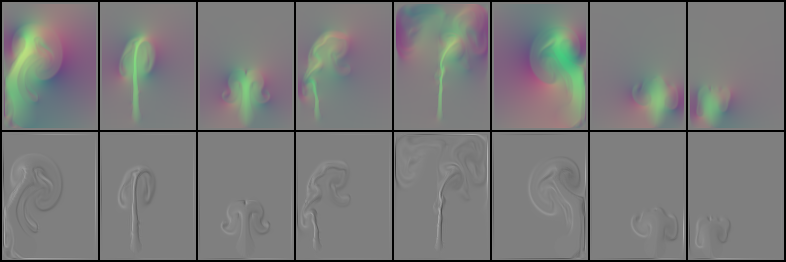
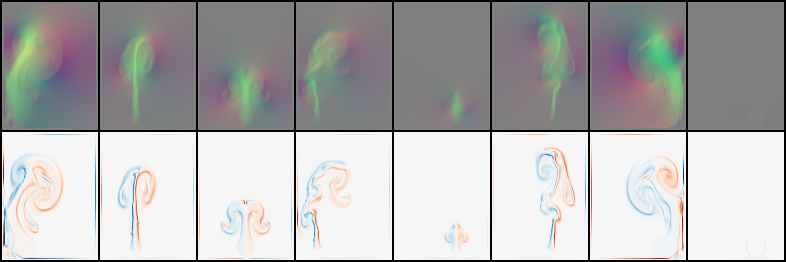
update

diff --git a/trainer3.py b/trainer3.py
@@ -67,13 +67,13 @@ class Trainer3(Trainer):
         summary = [
             # tf.summary.image("xy/G", self.G['xy']),
             # tf.summary.image("zy/G", self.G['zy']),
-            tf.summary.image("xym/G", self.G['xym']),
-            tf.summary.image("zym/G", self.G['zym']),
+            tf.summary.image("xym/G", self.G['xym'][:,::-1]),
+            tf.summary.image("zym/G", self.G['zym'][:,::-1]),
             
             # tf.summary.image("xy/G_vort", self.G_vort['xy']),
             # tf.summary.image("zy/G_vort", self.G_vort['zy']),
-            tf.summary.image("xym/G_vort", self.G_vort['xym']),
-            tf.summary.image("zym/G_vort", self.G_vort['zym']),
+            tf.summary.image("xym/G_vort", self.G_vort['xym'][:,::-1]),
+            tf.summary.image("zym/G_vort", self.G_vort['zym'][:,::-1]),
             
             tf.summary.scalar("loss/g_loss", self.g_loss),
             tf.summary.scalar("loss/g_loss_l1", self.g_loss_l1),
@@ -101,10 +101,10 @@ class Trainer3(Trainer):
         x_vort = denorm_img3(self.x_vort)
         
         summary = [
-            tf.summary.image("xym/x", x['xym']),
-            tf.summary.image("zym/x", x['zym']),
-            tf.summary.image("xym/vort", x_vort['xym']),
-            tf.summary.image("zym/vort", x_vort['zym']),
+            tf.summary.image("xym/x", x['xym'][:,::-1]),
+            tf.summary.image("zym/x", x['zym'][:,::-1]),
+            tf.summary.image("xym/vort", x_vort['xym'][:,::-1]),
+            tf.summary.image("zym/vort", x_vort['zym'][:,::-1]),
         ]
         self.summary_once = tf.summary.merge(summary) # call just once
 
@@ -281,11 +281,11 @@ class Trainer3(Trainer):
 
         # summary
         summary = [
-            tf.summary.image("x/xym", self.x_img['xym']),
-            tf.summary.image("x/zym", self.x_img['zym']),
+            tf.summary.image("x/xym", self.x_img['xym'][:,::-1]),
+            tf.summary.image("x/zym", self.x_img['zym'][:,::-1]),
 
-            tf.summary.image("x/vort_xym", self.x_vort_['xym']),
-            tf.summary.image("x/vort_zym", self.x_vort_['zym']),
+            tf.summary.image("x/vort_xym", self.x_vort_['xym'][:,::-1]),
+            tf.summary.image("x/vort_zym", self.x_vort_['zym'][:,::-1]),
             
             tf.summary.scalar("loss/total_loss", self.loss),
             tf.summary.scalar("loss/loss_l1", self.loss_l1),

diff --git a/trainer.py b/trainer.py
@@ -186,8 +186,8 @@ class Trainer(object):
 
         # summary
         summary = [
-            tf.summary.image("x/G", self.G),
-            tf.summary.image("x/G_vort", self.G_vort),
+            tf.summary.image("x/G", self.G[:,::-1]),
+            tf.summary.image("x/G_vort", self.G_vort[:,::-1]),
             
             tf.summary.scalar("loss/g_loss", self.g_loss),
             tf.summary.scalar("loss/g_loss_l1", self.g_loss_l1),
@@ -216,8 +216,8 @@ class Trainer(object):
         self.summary_op = tf.summary.merge(summary)
         
         summary = [
-            tf.summary.image("x/x", denorm_img(self.x)),
-            tf.summary.image("x/vort", denorm_img(self.x_vort)),
+            tf.summary.image("x/x", denorm_img(self.x)[:,::-1]),
+            tf.summary.image("x/vort", denorm_img(self.x_vort)[:,::-1]),
         ]
         self.summary_once = tf.summary.merge(summary) # call just once
 
@@ -398,8 +398,8 @@ class Trainer(object):
 
         # summary
         summary = [
-            tf.summary.image("x", self.x_img),
-            tf.summary.image("x_vort", self.x_vort_),
+            tf.summary.image("x", self.x_img[:,::-1]),
+            tf.summary.image("x_vort", self.x_vort_[:,::-1]),
             
             tf.summary.scalar("loss/total_loss", self.loss),
             tf.summary.scalar("loss/loss_l1", self.loss_l1),
@@ -772,7 +772,7 @@ class Trainer(object):
 
     def get_vort_image(self, x):
         x = vort_np(x[:,:,:,:2])
-        x /= np.abs(x).max() # [-1,1]
+        if not 'ae' in self.arch: x /= np.abs(x).max() # [-1,1]
         x_img = (x+1)*127.5
         x_img = np.uint8(plt.cm.RdBu(x_img[...,0]/255)*255)[...,:3]
         return x_img

diff --git a/util.py b/util.py
@@ -62,7 +62,7 @@ def rank(array):
     return len(array.shape)
 
 def make_grid(tensor, nrow=8, padding=2,
-              normalize=False, scale_each=False):
+              normalize=False, scale_each=False, flip=True):
     """Code based on https://github.com/pytorch/vision/blob/master/torchvision/utils.py"""
     nmaps = tensor.shape[0]
     xmaps = min(nrow, nmaps)
@@ -77,19 +77,21 @@ def make_grid(tensor, nrow=8, padding=2,
             h, h_width = y * height + 1 + padding // 2, height - padding
             w, w_width = x * width + 1 + padding // 2, width - padding
 
-            grid[h:h+h_width, w:w+w_width] = tensor[k]
+            if flip: grid[h:h+h_width, w:w+w_width] = tensor[k,::-1]
+            else: grid[h:h+h_width, w:w+w_width] = tensor[k]
             k = k + 1
     return grid
 
 def save_image(tensor, filename, nrow=8, padding=2,
-               normalize=False, scale_each=False, single=False):
+               normalize=False, scale_each=False, flip=True, single=False):
     if not single:
         ndarr = make_grid(tensor, nrow=nrow, padding=padding,
-                                normalize=normalize, scale_each=scale_each)
+                          normalize=normalize, scale_each=scale_each, flip=flip)
     else:
         h, w = tensor.shape[0], tensor.shape[1]
         ndarr = np.zeros([h,w,3], dtype=np.uint8)
-        ndarr[:,:] = tensor[:,:]
+        if flip: ndarr = tensor[::-1]
+        else: ndarr = tensor
     
     im = Image.fromarray(ndarr)
     im.save(filename)

diff --git a/data.py b/data.py
@@ -313,12 +313,14 @@ def preprocess(file_path, data_type, x_range, y_range):
         x = data['x']
         y = data['y']
 
-    # ############## for old data
-    if x.ndim == 4:
-        # x = x.transpose([2,0,1,3]) # yxzd -> zyxd
-        x = x[:,::-1] # horizontal flip
-    else:
-        x = x[::-1] # horizontal flip
+    # # ############## for old data
+    # if x.ndim == 4:
+    #     x = x.transpose([2,0,1,3]) # yxzd -> zyxd
+    # else:
+    #     y = y[None,]
+    #     x = x[:,::-1] # horizontal flip
+    # else:
+    #     x = x[::-1] # horizontal flip
 
     # normalize
     if data_type[0] == 'd':
@@ -450,9 +452,7 @@ if __name__ == "__main__":
     # # setattr(config, 'res_y', 48)
     # # setattr(config, 'res_z', 96)
 
-    # # setattr(config, 'data_dir', 'D:/dev/deep-fluids-mov/data')
-    # # setattr(config, 'dataset', 'smoke3_circle_f500')
-    # # # setattr(config, 'dataset', 'smoke3_rot_f500')
+    # # setattr(config, 'dataset', 'smoke3_rot_f500')
     # # setattr(config, 'res_x', 48)
     # # setattr(config, 'res_y', 72)
     # # setattr(config, 'res_z', 48)

diff --git a/README.md b/README.md
@@ -2,7 +2,7 @@
 
 Tensorflow implementation of [Deep Fluids: A Generative Network for Parameterized Fluid Simulations](http://www.byungsoo.me/project/deep-fluids).
 
-[Byungsoo Kim¹](http://www.byungsoo.me), [Vinicius C. Azevedo¹](http://graphics.ethz.ch/~vviniciu/), [Nils Thuerey²](https://ge.in.tum.de/), [Theodore Kim³](http://www.tkim.graphics/), [Markus Gross¹](https://graphics.ethz.ch/people/grossm), [Barbara Solenthaler¹](https://graphics.ethz.ch/~sobarbar/)
+[Byungsoo Kim](http://www.byungsoo.me)¹, [Vinicius C. Azevedo](http://graphics.ethz.ch/~vviniciu/)¹, [Nils Thuerey](https://ge.in.tum.de/)², [Theodore Kim](http://www.tkim.graphics/)³, [Markus Gross](https://graphics.ethz.ch/people/grossm)¹, [Barbara Solenthaler](https://graphics.ethz.ch/~sobarbar/)¹
 
 ¹ETH Zurich, ²Technical University of Munich, ³Pixar Animation Studios
 
@@ -14,20 +14,26 @@ Computer Graphics Forum (Proceedings of Eurographics 2019)
 
 This code is tested on Windows 10 and Ubuntu 16.04 with the following requirements:
 
-- [anaconda / python3.6](https://www.anaconda.com/download/)
+<!-- - [anaconda / python3.6](https://www.anaconda.com/download/) (run `conda install python=3.6` for the latest version.) -->
 - [TensorFlow 1.12](https://www.tensorflow.org/install/)
-- [tqdm](https://github.com/tqdm/tqdm)
-- [mantaflow](http://mantaflow.com/)
+- [mantaflow](http://mantaflow.com)
 
-After installing anaconda, run `pip install --ignore-installed --upgrade tensorflow-gpu tqdm`.
+Run the following line to install packages.
 
-To install `mantaflow`, please follow the instruction at [mantaflow website](http://mantaflow.com). Note that `numpy` cmake option should be set to enable support for numpy arrays.
+    $ pip install --upgrade tensorflow-gpu tqdm matplotlib Pillow imageio
+
+To install `mantaflow`, run:
+
+    $ git clone https://bitbucket.org/mantaflow/manta.git
+    $ git checkout 15eaf4
+    
+and follow the [instruction](http://mantaflow.com/install.html). Note that `numpy` cmake option should be set to enable support for numpy arrays. (i.e., `-DNUMPY='ON'`)
 
 ## Usage
 
 Run a script for the dataset generation using mantaflow. For instance,
 
-    $ ..\manta\build\Release\manta.exe ./smoke_pos_size.py
+    $ ..\manta\build\Release\manta.exe .\scene\smoke_pos_size.py
 
 To train:
     
@@ -37,16 +43,52 @@ To test:
     
     $ python main.py --is_train=False --load_path=MODEL_DIR
 
-Please take a closer look at `run.bat` for each dataset.
+Please take a closer look at `run.bat` for each dataset and other architectures.
 
-## Results
+## Result (2D)
 
-### Output for each parameter after 100 epochs (From top to bottom: position / width / time)
+### Reconstruction from each parameter after 100 epochs (From top to bottom: position / width / time)
 
 ![param](./asset/param.png)
 
-### Output of random samples after 100 epochs (Top: reconstructed, bottom: ground truth)
+### Reconstruction of random samples after 100 epochs (Top: reconstructed, bottom: ground truth)
+
+In each image, the top row shows velocity profiles, and the bottom row shows vorticity profiles.
 
 ![random](./asset/random.png)
 
 ![randomgt](./asset/random_gt.png)
+
+## Result (3D)
+
+### Reconstruction from each parameter after 100 epochs. (From top to bottom: in-flow velocity / buoyancy / time)
+
+The left image shows the middle slice of xy domain, and the right image is the middle slice view of zy domain.
+
+In each image, the top three rows are velocity profiles, and the rest rows are vorticity profiles.
+
+![param_xy](./asset/param_xy.png) ![param_zy](./asset/param_zy.png)
+
+### Reconstruction of random samples after 100 epochs (Top: reconstructed (xy-zy), bottom: ground truth (xy-zy))
+
+![random_xy](./asset/random_xy.png) ![random_zy](./asset/random_zy.png)
+
+![random_xy_gt](./asset/random_xy_gt.png) ![random_zy_gt](./asset/random_zy_gt.png)
+
+## Result (Autoencoder)
+
+### Reconstruction (2D) of random samples after 10 epochs (Top: reconstructed, bottom: ground truth)
+
+![random_ae](./asset/random_ae.png)
+
+![random_ae_gt](./asset/random_ae_gt.png)
+
+### Reconstruction (3D) of random samples after 10 epochs (Top: reconstructed (xy-zy), bottom: ground truth (xy-zy))
+
+![random_ae_xy](./asset/random_ae_xy.png) ![random_ae_zy](./asset/random_ae_zy.png)
+
+![random_ae_xy_gt](./asset/random_ae_xy_gt.png) ![random_ae_zy_gt](./asset/random_ae_zy_gt.png)
+
+## Author
+
+[Byungsoo Kim](http://www.byungsoo.me) / [@byungsook](https://github.com/byungsook)
